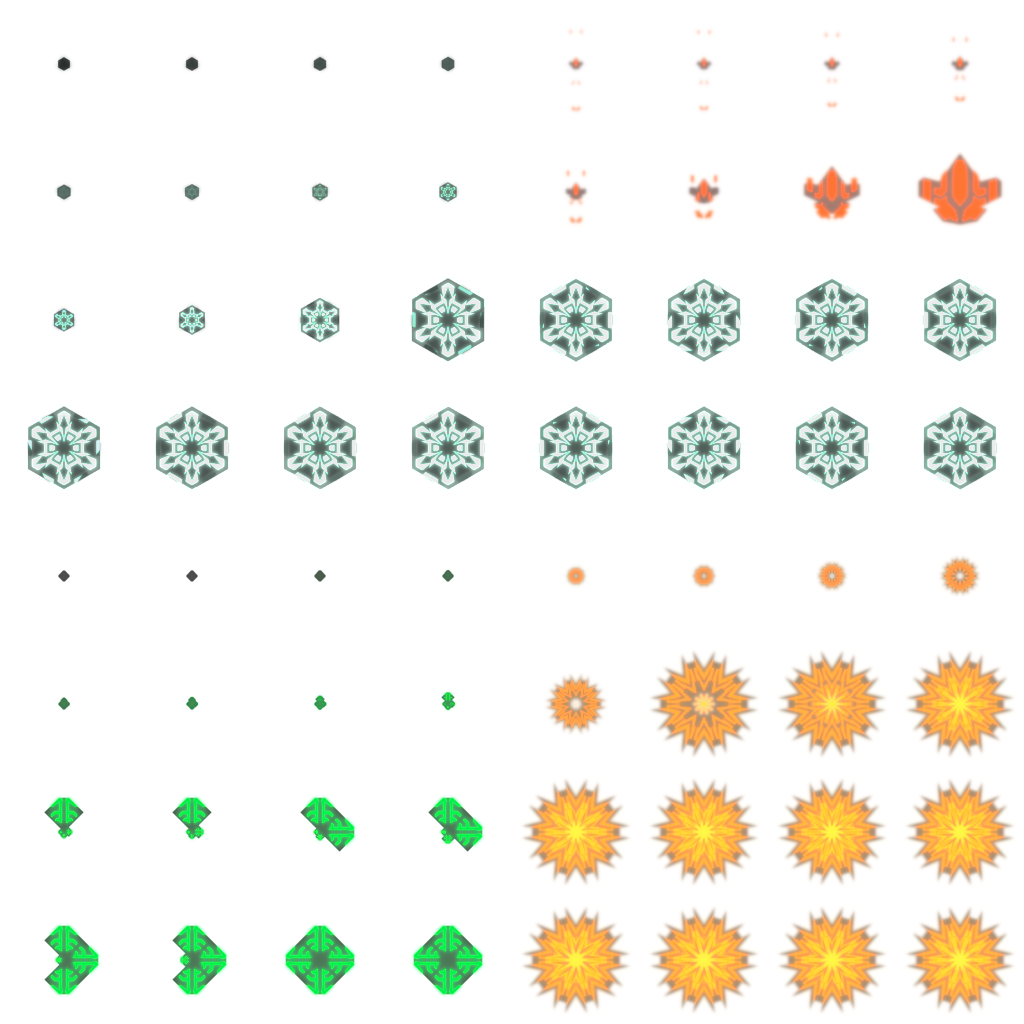
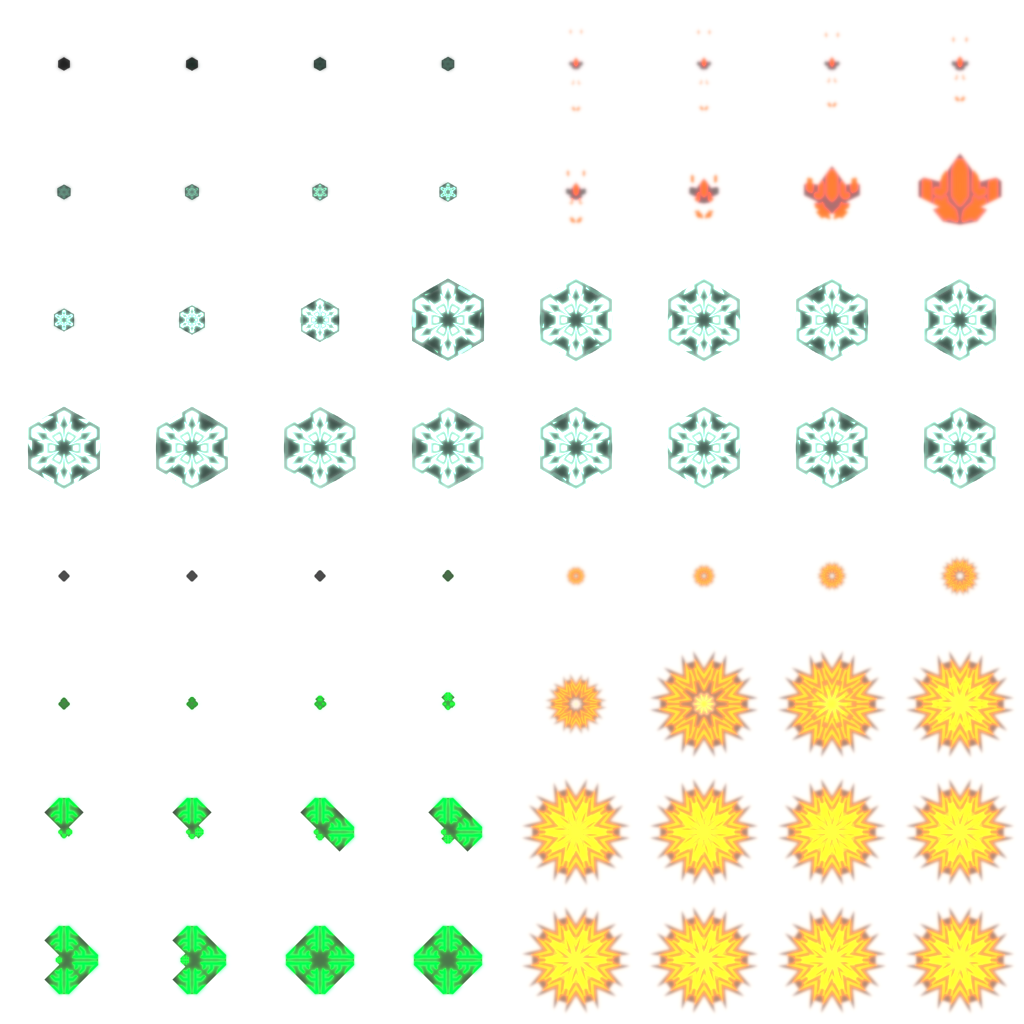
Color balancing for low brightness screens (phones :| ), my final commit, tweaks

diff --git a/core/src/com/tint/specular/game/spawnsystems/PowerUpSpawnSystem.java b/core/src/com/tint/specular/game/spawnsystems/PowerUpSpawnSystem.java
@@ -75,7 +75,7 @@ public class PowerUpSpawnSystem extends SpawnSystem {
 		if(pushAway > importance)
 			importance = pushAway;
 		
-		float laser = (float) (rand.nextDouble() - (gs.getPlayer().getAmmoType().equals(AmmoType.LASER) ? rand.nextDouble() * 0.45f : 0));
+		float laser = (float) (rand.nextDouble() - (gs.getPlayer().getAmmoType().equals(AmmoType.LASER) ? rand.nextDouble() * 0.8f : 0));
 		if(laser > importance)
 			importance = laser;
 		

diff --git a/core/src/com/tint/specular/game/entities/WaveLoader.java b/core/src/com/tint/specular/game/entities/WaveLoader.java
@@ -118,7 +118,7 @@ public class WaveLoader {
 		
 		/* Combinations */
 		final EnemyType[] randomEnemies = new EnemyType[]{ENEMY_BOOSTER,ENEMY_CIRCLER,ENEMY_DASHER,ENEMY_STRIVER,ENEMY_WANDERER};
-		final EnemyType[] hcEnemies = new EnemyType[]{ENEMY_EXPLODER,ENEMY_WORM,ENEMY_TANKER};
+		final EnemyType[] hcEnemies = new EnemyType[]{ENEMY_EXPLODER,ENEMY_TANKER};
 
 		int random, randomHc;
 		random = rand.nextInt(randomEnemies.length);
